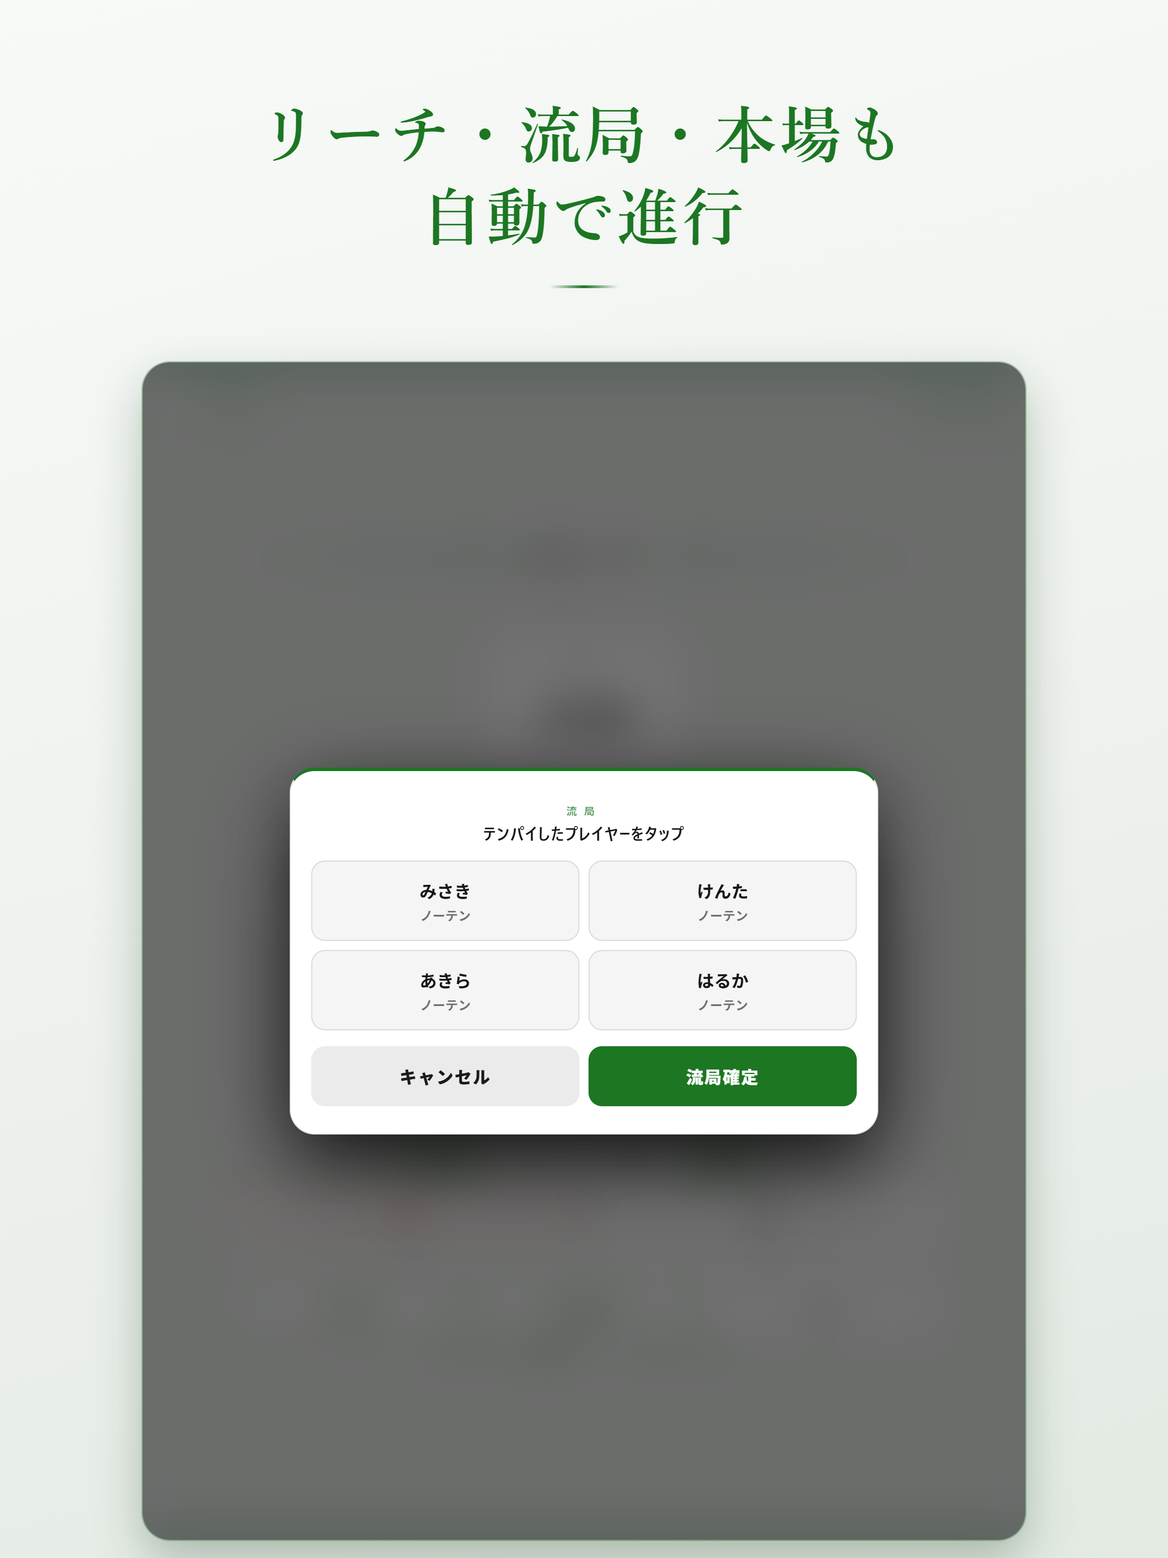
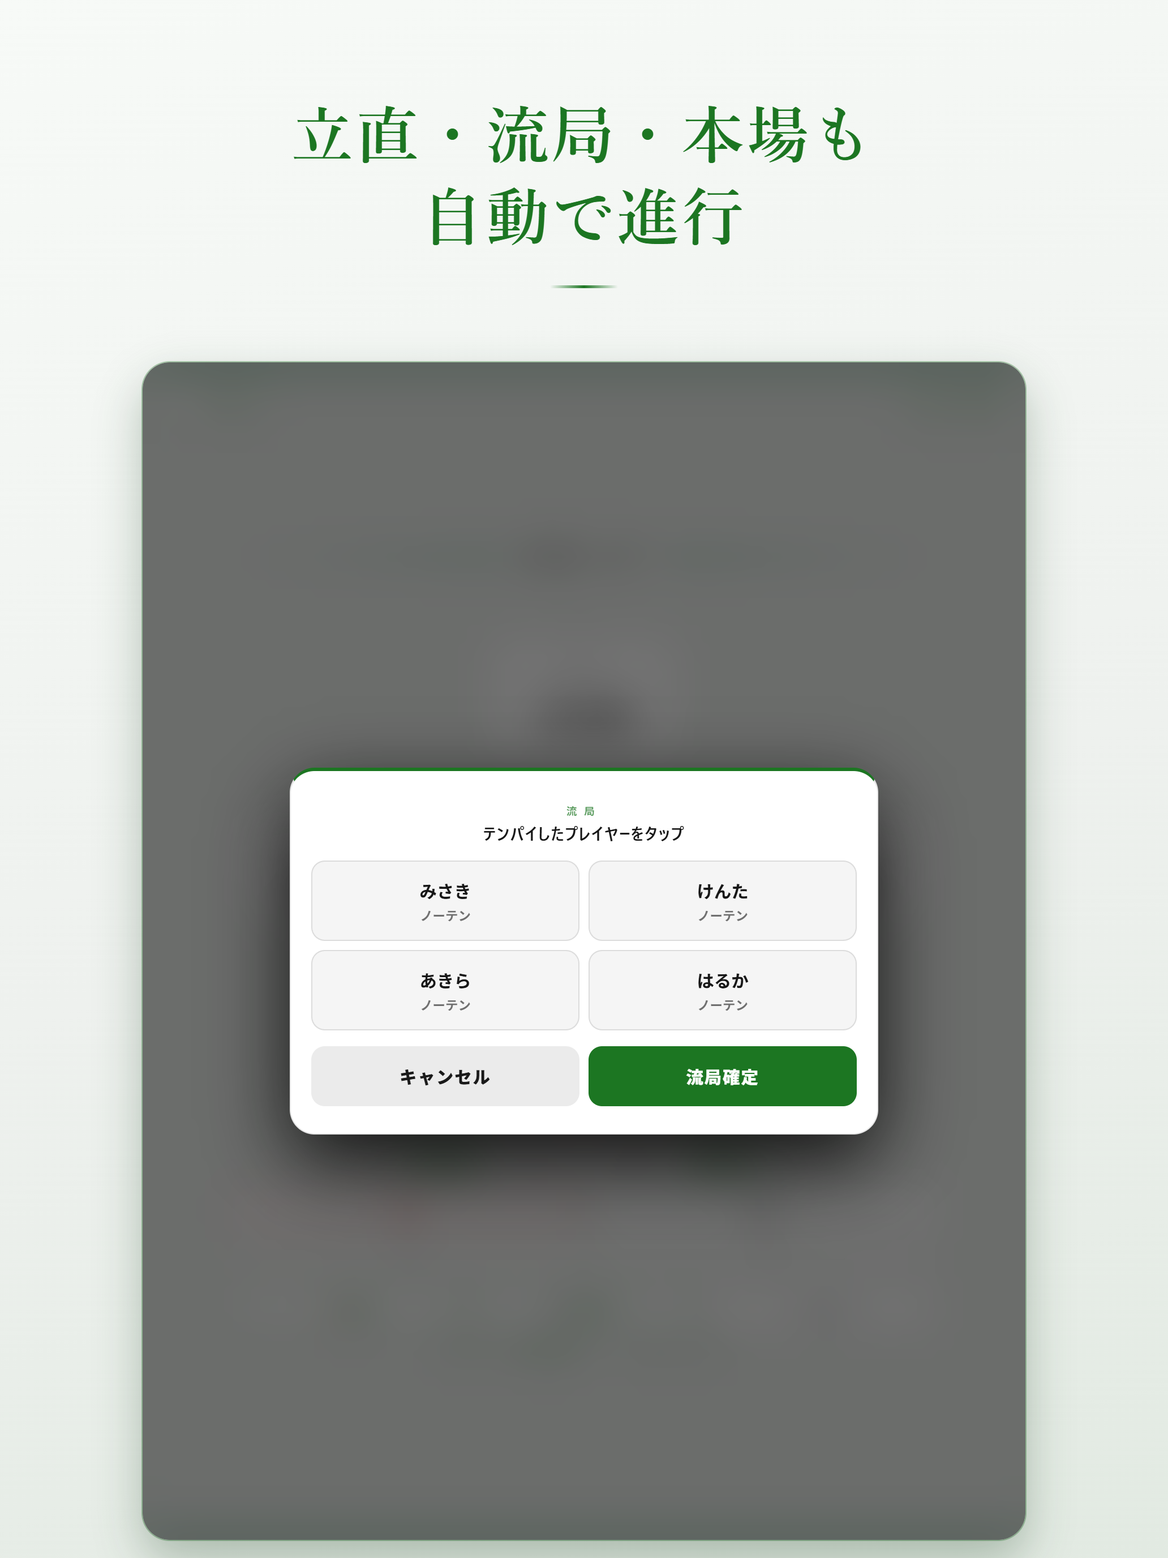
fix: Guideline 2.3.6(Gambling)対策 — 金銭を連想させる文言を全面排除
App Store審査で「実マネー賭博関連ツール」と判定されたため、誤読の材料を除去。
アプリの機能自体は一切変更なし（金銭・レート・賭けの実装は元から皆無）。

アプリ内文言:
- 「精算」を全19箇所から排除 →「最終スコア集計」「集計」「対局結果」へ
  （settlement/payment settlement と機械翻訳されるのを防ぐ）
- ヘルプ「6倍役満チップ」→「6倍役満まで対応」（gambling chip との誤読回避）
- チョンボ「罰符精算・場外-20P」→「罰符を記録・-20pt」
- ヘルプ末尾に「金銭のやり取り・レート設定・賭けの機能は一切ありません」を明示

メタデータ(listing.md):
- セカンダリカテゴリ「ゲーム」を外す（Casino系の審査基準を引かないため）
- キーワード「雀荘」削除（mahjong parlor=賭博場と直訳される）
- 「精算結果はコピー／共有でそのままグループチャットへ」→「対局結果（順位・pt）はコピー／共有」
- ウマ・オカを「日本式の順位点ルール」「pt（単位なしのポイント）」と明示
- 審査メモを英語詳細版に全面差し替え（何であるかを先に述べ、否定は簡潔に）

その他:
- ストアスクショのキャプション「自動精算」→「スコア自動集計」、両サイズ再生成
- Resolution Center 用の返信文・段階別対応手順を appstore/appeal-2.3.6-gambling.md に追加

注: 年齢制限アンケートは変更しない（Gambling=No のまま）。Yes にすると18+固定に加え
Guideline 5.1.1(ix)により個人開発者では提出不可となるため。

テスト183件パス。配布物(www/)から「精算」0件を確認。

Changed region(s): [[0.5891, 0.0625, 0.7752, 0.125], [0.4031, 0.0625, 0.5581, 0.125], [0.2171, 0.0625, 0.3721, 0.125]]

diff --git a/index.html b/index.html
@@ -1325,7 +1325,7 @@
     /* スウォッチ on を緑に */
     [data-skin="green"] .theme-sw.on { border-color: #1c7622; background: rgba(28,118,34,0.1); }
     [data-skin="green"] .theme-sw.on .sw-name { color: #1c7622; }
-    /* 精算ランキング: 1位は緑ピル＋白文字（グリーンテーマの署名） */
+    /* 最終スコア集計ランキング: 1位は緑ピル＋白文字（グリーンテーマの署名） */
     [data-skin="green"] .rank-row.rank-1 {
       background: #1c7622; border-color: #1c7622;
     }
@@ -1997,7 +1997,7 @@
       <div class="help-section-title">ルール（標準 / 競技）</div>
       <div class="help-row">
         <span class="help-op">標準</span>
-        <span class="help-desc">ウマ +15/+5/−5/−15・オカなし（25,000返し）<br>ダブル役満〜6倍役満チップ・飛び即終了・途中流局あり</span>
+        <span class="help-desc">ウマ +15/+5/−5/−15・オカなし（25,000返し）<br>ダブル役満〜6倍役満まで対応・飛び即終了・途中流局あり</span>
       </div>
       <div class="help-row">
         <span class="help-op">競技</span>
@@ -2014,10 +2014,10 @@
     </div>
 
     <div class="help-section">
-      <div class="help-section-title">試合終了・精算</div>
+      <div class="help-section-title">試合終了・最終スコア集計</div>
       <div class="help-row">
         <span class="help-op">試合終了</span>
-        <span class="help-desc">「試合終了」ボタンで素点・ウマを自動計算</span>
+        <span class="help-desc">「試合終了」ボタンで素点・ウマ・オカ（日本式の順位点ルール）を<br>自動計算し、順位と pt（単位なしのポイント）を表示</span>
       </div>
       <div class="help-row">
         <span class="help-op">和了止め</span>
@@ -2038,7 +2038,8 @@
     </div>
 
     <div class="help-note" style="margin-top:14px; line-height:1.6;">
-      本アプリは点数管理ツールです。特定の麻雀ゲーム・大会・団体とは一切関係ありません。
+      本アプリは点数の記録・計算のみを行うツールです。金銭のやり取り、レート・賭け金の設定、換金、勝敗予想の機能は一切ありません。<br>
+      特定の麻雀ゲーム・大会・団体とも関係ありません。
     </div>
 
     <div class="modal-actions">
@@ -2090,7 +2091,7 @@
     <div class="set-row" style="display:block;">
       <div class="set-info">
         <div class="set-label">対局の長さ</div>
-        <div class="set-desc">規定局数を終えると精算を提案します</div>
+        <div class="set-desc">規定局数を終えると最終スコア集計を提案します</div>
       </div>
       <div class="set-seg" id="lengthSeg">
         <button class="set-seg-btn" data-length="tonpu">東風戦</button>
@@ -3241,19 +3242,19 @@
       return;
     }
     setTimeout(async () => {
-      if (await appConfirm('規定局数を終了しました。精算しますか？', '精算する', '続行')) openGameEndModal();
+      if (await appConfirm('規定局数を終了しました。最終スコアを集計しますか？', '集計する', '続行')) openGameEndModal();
     }, 500);
   }
   /* ── 和了止め・聴牌止め（標準ルールのみ・雀魂準拠） ──────
      オーラスで親が和了（またはテンパイ連荘）し、かつ親が1位のとき、
      連荘せずゲームを終了する選択ができる（1位のみ・Mリーグ公式は「なし」）。
-     西入サドンデス中は checkEndSuggest 側が精算提案を出すため対象外。 */
+     西入サドンデス中は checkEndSuggest 側が集計提案を出すため対象外。 */
   function checkAgariYame(kind) {
     if (ruleset !== 'jantama') return;
     const N = sanmaMode ? 3 : 4;
     const lastKyoku = (gameLength === 'tonpu' ? N : 2 * N) - 1;  /* 東風=東4 / 半荘=南4 */
     if (kyoku !== lastKyoku) return;
-    /* 親が1位か（同点は起家に近い方が上位＝精算と同じ判定） */
+    /* 親が1位か（同点は起家に近い方が上位＝最終スコア集計と同じ判定） */
     const rot  = ROTATION();
     const kIdx = Math.max(0, rot.indexOf(kiichaId));
     const seatOrder = rot.slice(kIdx).concat(rot.slice(0, kIdx));
@@ -3262,7 +3263,7 @@
     if (top !== dealerId) return;
     const label = kind === 'tenpai' ? '聴牌止め' : '和了止め';
     setTimeout(async () => {
-      if (await appConfirm(`オーラスで親（${getName(dealerId)}）が1位です。\n${label}して精算しますか？`, '精算する', '続行（連荘）')) openGameEndModal();
+      if (await appConfirm(`オーラスで親（${getName(dealerId)}）が1位です。\n${label}して最終スコアを集計しますか？`, '集計する', '続行（連荘）')) openGameEndModal();
     }, 700);
   }
   function setGameLength(len, silent) {
@@ -3271,14 +3272,14 @@
     document.querySelectorAll('.set-seg-btn[data-length]').forEach(b => {
       b.classList.toggle('active', b.dataset.length === gameLength);
     });
-    if (!silent) showToast(gameLength === 'tonpu' ? '東風戦に設定（東4で精算）' : '半荘戦に設定（南4で精算）');
+    if (!silent) showToast(gameLength === 'tonpu' ? '東風戦に設定（東4で集計）' : '半荘戦に設定（南4で集計）');
   }
   function checkTobi() {
     const busted = IDS.find(id => players[id].score < 0);
     if (!busted) return;
     if (RULESETS[ruleset].tobiEnd) {
       setTimeout(async () => {
-        if (await appConfirm(`${getName(busted)} が0点未満（飛び）。\n標準ルールでは終局です。精算しますか？`, '精算する', '続行')) openGameEndModal();
+        if (await appConfirm(`${getName(busted)} が0点未満（飛び）。\n標準ルールでは終局です。最終スコアを集計しますか？`, '集計する', '続行')) openGameEndModal();
       }, 600);
     } else {
       showToast(`${getName(busted)} 0点未満（競技ルールでは続行）`, true, 3000);
@@ -3443,7 +3444,7 @@
     const isOya = pid === dealerId;
     const msg = ruleset === 'jantama'
       ? `${getName(pid)} のチョンボ（満貫払い）\n${isOya ? '他家に各4,000点' : '親に4,000点・他の子に各2,000点'}を支払います。\n（同局再ゲーム・本場据え置き）`
-      : `${getName(pid)} のチョンボを記録します。\n競技ルールでは点数移動なし（場外で-20P減算）。`;
+      : `${getName(pid)} のチョンボを記録します。\n競技ルールでは点数移動なし（-20pt を減算）。`;
     if (!(await appConfirm(msg, 'チョンボ処理'))) return;
     let moved = false;
     /* チョンボは同局やり直し: 今局のリーチ棒は宣言者に返却する（両ルール共通） */
@@ -3469,7 +3470,7 @@
       renderScores(); renderCenterInfo(); saveLive();
     }
     lsPush(LS_TRANSFER, { timestamp: Date.now(), pid, playerName: getName(pid), type: 'chombo', moved }, 200);
-    showToast(`${getName(pid)} チョンボ${moved ? '（罰符精算・同局再ゲーム）' : '（記録のみ・場外-20P）'}`);
+    showToast(`${getName(pid)} チョンボ${moved ? '（罰符を記録・同局やり直し）' : '（記録のみ・-20pt）'}`);
     closeAdjustModal();
     if (moved) checkTobi();
   }
@@ -3527,8 +3528,8 @@
   }
 
   /* ── Game-end modal ─────────────────────────────── */
-  let lastResults = null;   /* 共有テキスト用に直近の精算結果を保持 */
-  /* 精算ptの表示: 整数ならそのまま、端数があれば小数1桁 */
+  let lastResults = null;   /* 共有テキスト用に直近の集計結果を保持 */
+  /* 集計ptの表示: 整数ならそのまま、端数があれば小数1桁 */
   function fmtPt(v) {
     const r = Math.round(v * 10) / 10;
     const s = Number.isInteger(r) ? String(r) : r.toFixed(1);
@@ -3602,12 +3603,12 @@
     gameEndModal.classList.add('show');
   }
 
-  /* ── 精算結果の共有 ─────────────────────────────── */
+  /* ── 対局結果の共有 ─────────────────────────────── */
   function buildResultText() {
     if (!lastResults) return '';
     const lines = lastResults.map(r =>
       `${r.rank}位 ${r.name}　${r.finalScore.toLocaleString()}点（${fmtPt(r.totalPoint)}）`);
-    return `【点棒いらず】精算結果\n${lines.join('\n')}`;
+    return `【点棒いらず】対局結果\n${lines.join('\n')}`;
   }
   async function shareResults() {
     const text = buildResultText();
@@ -3672,7 +3673,7 @@
       riichi:    e => `${esc(e.playerName||'-')} 立直（供託 +1,000）`,
       ryuukyoku: e => `流局（テンパイ: ${(e.tenpaiNames && e.tenpaiNames.length) ? esc(e.tenpaiNames.join('・')) : 'なし'}）`,
       chuuto:    () => '途中流局（連荘）',
-      chombo:    e => `${esc(e.playerName||'-')} チョンボ${e.moved ? '（罰符精算）' : '（記録のみ）'}`,
+      chombo:    e => `${esc(e.playerName||'-')} チョンボ${e.moved ? '（罰符）' : '（記録のみ）'}`,
     };
     [...log].reverse().forEach(e => {
       const div = document.createElement('div');

diff --git a/tools/make_store_shots.js b/tools/make_store_shots.js
@@ -24,9 +24,9 @@ const NAMES = { east: 'あきら', south: 'はるか', west: 'けんた', north:
 const SCENES = [
   { id: 'home',      caption: 'スワイプで<br>点棒いらず' },
   { id: 'ron',       caption: '点数表から<br>選ぶだけ' },
-  { id: 'gameend',   caption: 'ウマ・オカ込みで<br>自動精算' },
+  { id: 'gameend',   caption: 'ウマ・オカ込みで<br>スコア自動集計' },
   { id: 'picker',    caption: '3つのテーマ' },
-  { id: 'ryuukyoku', caption: 'リーチ・流局・本場も<br>自動で進行' },
+  { id: 'ryuukyoku', caption: '立直・流局・本場も<br>自動で進行' },
 ];
 
 async function appShot(scene) {

diff --git a/appstore/appeal-2.3.6-gambling.md b/appstore/appeal-2.3.6-gambling.md
@@ -1,0 +1,117 @@
+# Guideline 2.3.6（Gambling）リジェクトへの返信文
+
+- 対象: Submission ID `a2be13a8-4463-4f4b-a0f8-95fd06e034f0` / Version 1.0
+- 作成日: 2026-07-28
+- 前提: **年齢制限アンケートは変更しない**（Gambling=No / Simulated Gambling=NONE / Loot Boxes=No のまま）
+
+> ⚠ **Gambling=Yes には絶対にしないこと。**
+> 新レーティング体系で 18+ 固定になるうえ、Guideline 5.1.1(ix)（ギャンブル等の高度規制分野は法人が提出すべきで個人開発者は不可）に抵触し、
+> 個人名義では公開自体ができなくなる。指示どおり変更して「個人開発者のギャンブルアプリは受け付けない」とより重いリジェクトに悪化した実例がある。
+
+---
+
+## 送信前チェックリスト
+
+- [ ] メタデータ修正を App Store Connect に反映（セカンダリカテゴリ「ゲーム」を外す / キーワード「雀荘」削除 / 説明文の「精算」→「最終スコア集計」・「グループチャットへ」削除）
+- [ ] 審査メモを英語詳細版（listing.md 参照）に差し替え
+- [ ] アプリ内文言を修正した**新ビルド 1.0(10) を提出**（下の英文は「アプリと説明文の両方で改名した」と書いているため）
+- [ ] 添付: 全画面のスクリーンショット（**設定画面を必ず含める**＝レート/金額/賭け金の項目が存在しない証明）
+- [ ] 添付または本文: 操作録画（60秒程度）の限定公開URL ※Resolution Center は動画添付非対応なのでURLをテキストで貼る
+- [ ] 本文に**競合アプリとの比較は書かない**（Apple は他社比較を嫌い、藪蛇になる）
+
+---
+
+## 返信文（英語・そのまま貼る）
+
+```
+Thank you for the additional review. We respectfully ask you to reconsider, as we believe the Gambling descriptor does not apply to this app.
+
+Tenbo Irazu is an offline scoreboard for the tabletop game mahjong. It replaces the physical point sticks used at the table: users swipe between two player cards to move points. Mahjong itself cannot be played in the app.
+
+The app contains no money, price, currency, exchange rate, or stake setting; no betting, wagering, odds, predictions, or tips; no way to purchase, redeem, or convert points into anything of value; and no in-app purchase, advertising, account, or network connection of any kind. We searched the entire source code and every UI string for money, bet, wager, stake, odds, casino, gambling, rate, and their Japanese equivalents: zero occurrences.
+
+"Uma" and "Oka" are the standard ranking-point rules of Japanese mahjong. When a game ends, raw points are converted into unitless ranking points based on finishing order (+15/+5/-5/-15). They are not money and cannot be exchanged for anything. The same rules are used in non-wagering professional competition such as the M.LEAGUE.
+
+To remove any translation ambiguity, we have renamed the Japanese term "seisan" - which can machine-translate as "payment settlement" - to "final score summary" in the app and in the App Store description, and we removed the secondary category "Games."
+
+App Store Connect defines Gambling as "betting or wagering using real money or in-game currency that may be exchanged for real money." Neither exists here, so "No" is the accurate answer that Guideline 2.3.6 requires.
+
+Screenshots of every screen, including Settings, are attached. If any specific screen or string still appears to indicate real-money gambling, please tell us which one and we will change it immediately.
+```
+
+## 同内容（日本語版・日本語で返信する場合）
+
+```
+再度のご審査ありがとうございます。「ギャンブル」の該当表示について、本アプリには当てはまらないと考えておりますので、恐れ入りますが再検討をお願いいたします。
+
+「点棒いらず」は、卓上ゲームである麻雀のための完全オフラインのスコアボードです。卓上で使う物理的な点棒を置き換えるもので、プレイヤーのカード間をスワイプして点数を移動させるツールです。アプリ内で麻雀をプレイすることはできません。
+
+本アプリには、金銭・価格・通貨・換算レート・賭け金の設定は一切ありません。賭け、ベット、オッズ、勝敗予想、予想情報の機能もありません。点数を購入・換金・価値あるものへ変換する手段もありません。アプリ内課金、広告、アカウント、ネットワーク通信もいずれも存在しません。ソースコード全文とすべてのUI文字列を money / bet / wager / stake / odds / casino / gambling / rate および日本語の該当語で検索しましたが、該当は0件です。
+
+「ウマ」「オカ」は日本の麻雀における標準的な順位点ルールです。対局終了時に素点を順位に応じた単位のない順位点（+15/+5/−5/−15）へ換算するもので、金銭ではなく、何かと交換することもできません。同じルールは賭博性のないプロ競技（Mリーグ等）でも使用されています。
+
+翻訳上の誤解を避けるため、「payment settlement」と機械翻訳されうる「精算」という語を、アプリ内および App Store の説明文において「最終スコア集計」へ変更しました。あわせてセカンダリカテゴリ「ゲーム」も外しております。
+
+App Store Connect における Gambling の定義は「現実の通貨、または現実の通貨に換金可能なゲーム内通貨を使用する賭博または賭け事」です。本アプリにはそのいずれも存在しないため、ガイドライン 2.3.6 が求める正直な回答は「No」であると考えます。
+
+設定画面を含む全画面のスクリーンショットを添付いたします。もし特定の画面または文字列が実マネー賭博に該当するとご判断されている場合は、どの箇所かをお示しいただければ直ちに修正いたします。
+```
+
+---
+
+## 第2段: 同じ定型文で再リジェクトされた場合（Board へ行く前に1回だけ）
+
+Apple は今回「どの画面・どの文字列が該当か」を一切示していない。具体箇所の明示を求めるのは正当な要求で、
+テンプレ返信を人力回答に切り替えさせる有効な手。**短く1点だけ**聞く。
+
+```
+Could you please identify the specific screen or the specific string in the app that is considered a tip, tool, or prediction related to real money gambling? We will change it immediately.
+```
+
+## 第3段: App Review Board へのアピール
+
+- 送信先: https://developer.apple.com/contact/app-store/?topic=appeal
+- **1リジェクトにつき1回のみ**。証拠（全画面スクショ・操作録画・1ページの機能一覧）が揃ってから撃つ
+- 本文に必ず入れる: ①Resolution Center で提出した内容と日付、②同一の定型文が返ってきた事実、
+  ③個人開発者のため Gambling=Yes は 5.1.1(ix) と衝突する点
+
+```
+App: Tenbo Irazu, Version 1.0, Submission ID a2be13a8-4463-4f4b-a0f8-95fd06e034f0,
+rejected under Guideline 2.3.6.
+
+We are appealing because the "Gambling" descriptor was applied to functionality the app
+does not have. The app is an offline mahjong scoreboard: it records point transfers
+between players with swipes and, at the end of a game, converts raw points into unitless
+ranking points (Uma/Oka) to show the finishing order. It contains no real money, no
+in-app currency, no purchase, no advertising, no account, no odds, no predictions, and no
+network communication of any kind.
+
+App Store Connect defines Gambling as "betting or wagering using real money or in-game
+currency that may be exchanged for real money," and none of these elements exist in the app.
+
+In Resolution Center on [DATE] we provided screenshots of every screen and a full screen
+recording, and we reworded the Japanese term "seisan" (which can machine-translate as
+"payment settlement") to "final score summary" in both the app and its metadata. We
+received the same templated response.
+
+We are also an individual developer, so declaring "Yes" for Gambling would describe
+content the app does not contain while placing it in conflict with Guideline 5.1.1(ix).
+
+We respectfully ask the Board to re-evaluate the age rating answers as submitted, or to
+identify the specific screen or string that is considered real-money gambling so that we
+can change it.
+
+Attachments: full screenshot set, screen recording, one-page feature list.
+```
+
+---
+
+## 第4段以降（撤退ライン: 往復2回・2週間を目安に判断）
+
+1. **年齢下限の手動引き上げ**: アンケートは No のまま維持し、Apple の「自社ポリシーとしてより高い最低年齢を設定できる」機能で 13+/16+ に自主設定する。
+   Gambling=Yes（→18+ ＋ 5.1.1(ix) 発動）を回避しつつ、形式的に指摘へ応える妥協案。※2.3.6 を満たす公式保証はない
+2. **機能削減版で通す**: ウマ・オカの順位点換算を外し、素点集計と順位表示だけで提出 → 承認後にアップデートで正規に追加。
+   ※「審査を欺いて後で有効化する」書き方は絶対にしない（アカウント停止リスク）
+
+**Web版(PWA)は https://ceta211.github.io/mahjong-score/ で稼働中**。App Store 公開が遅れても機能提供は止まらないので、
+焦って Gambling=Yes に折れる必要はない。
